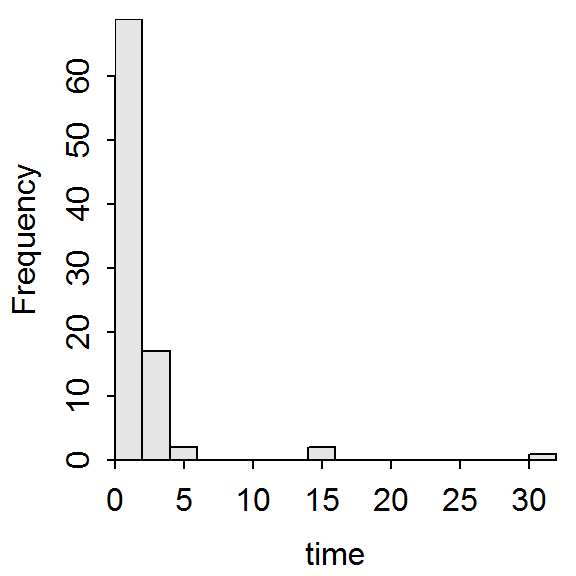
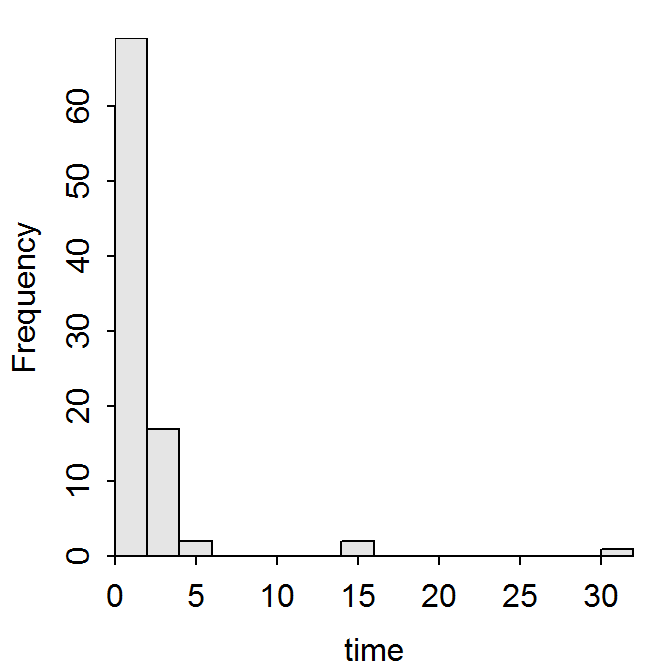
again

Changed region(s): [[0.0938, 0.0312, 0.9688, 0.9062], [0.0, 0.2812, 0.0625, 0.5625], [0.5, 0.9375, 0.625, 1.0]]

diff --git a/modules/UEDAQuant2_RevEx_EDAs.html b/modules/UEDAQuant2_RevEx_EDAs.html
@@ -12,7 +12,7 @@ css: "/css/modules.css"
 <h2>Time Spent Playing Video Games</h2>
 <p><img src="zimgs/videogame.jpg" alt="Video Game" class="img-right"></p>
 <p>For a class project, a student asked 91 students how much time they had spent playing video games in the last two days. Use the results in the figure and table below to construct a univariate EDA for these data.</p>
-<p><img src="UEDAQuant2_RevEx_EDAs_files/figure-html/unnamed-chunk-3-1.png" width="288" /></p>
+<p><img src="UEDAQuant2_RevEx_EDAs_files/figure-html/unnamed-chunk-3-1.png" width="336" /></p>
 <pre><code>       n     mean       sd      min       Q1   median       Q3      max percZero 
     91.0      1.2      3.8      0.0      0.0      0.0      1.2     30.0     62.6 </code></pre>
 <p><a href="zRevExAns/UEDAQuant2_VideoGames">See answer here</a></p>
@@ -22,7 +22,7 @@ css: "/css/modules.css"
 <h2>Bank Transaction Times</h2>
 <p><img src="zimgs/bank.jpg" alt="Bank Transaction" class="img-right"></p>
 <p>Cunningham and Heathcote (1989) recorded the total transaction time (in hours) for a large number of transactions at a branch office of a large Australian bank. Describe the distribution of these data from the results shown below.</p>
-<p><img src="UEDAQuant2_RevEx_EDAs_files/figure-html/unnamed-chunk-4-1.png" width="288" /></p>
+<p><img src="UEDAQuant2_RevEx_EDAs_files/figure-html/unnamed-chunk-4-1.png" width="336" /></p>
 <pre><code>     n   mean     sd    min     Q1 median     Q3    max 
  261.0  110.1   62.9    8.1   60.3   93.0  145.2  345.7 </code></pre>
 <p><a href="zRevExAns/UEDAQuant2_Bank">See answer here</a></p>
